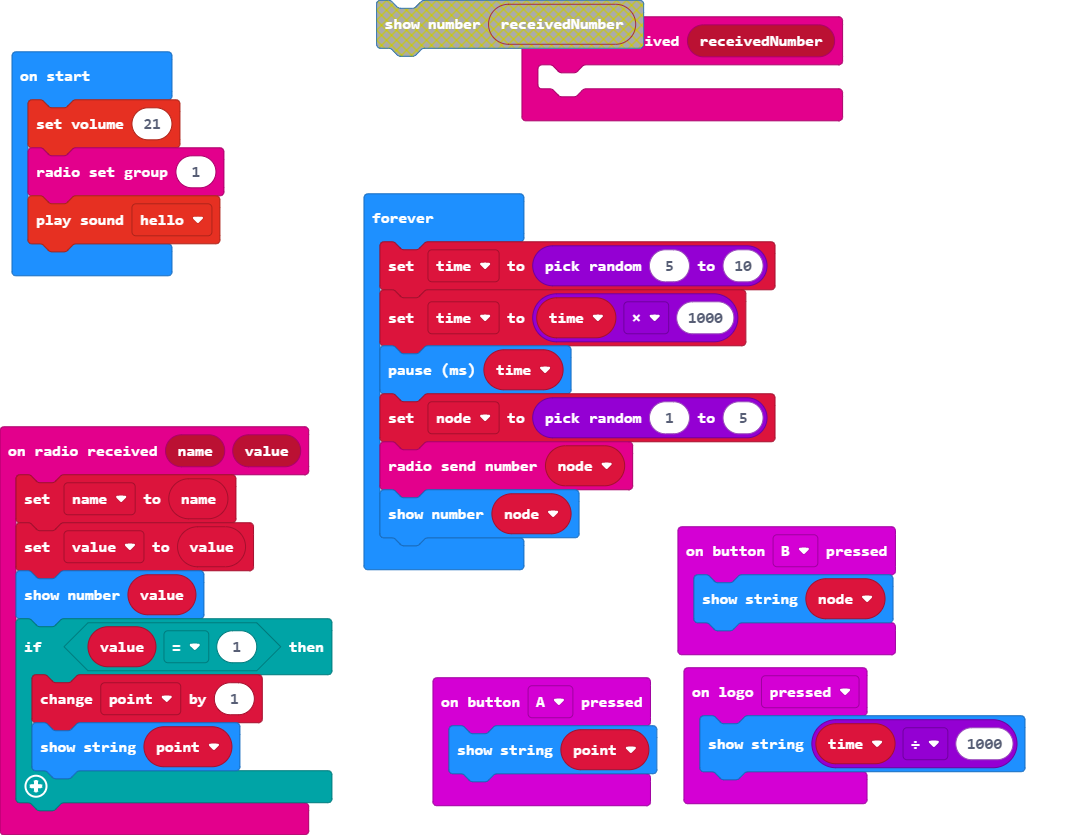
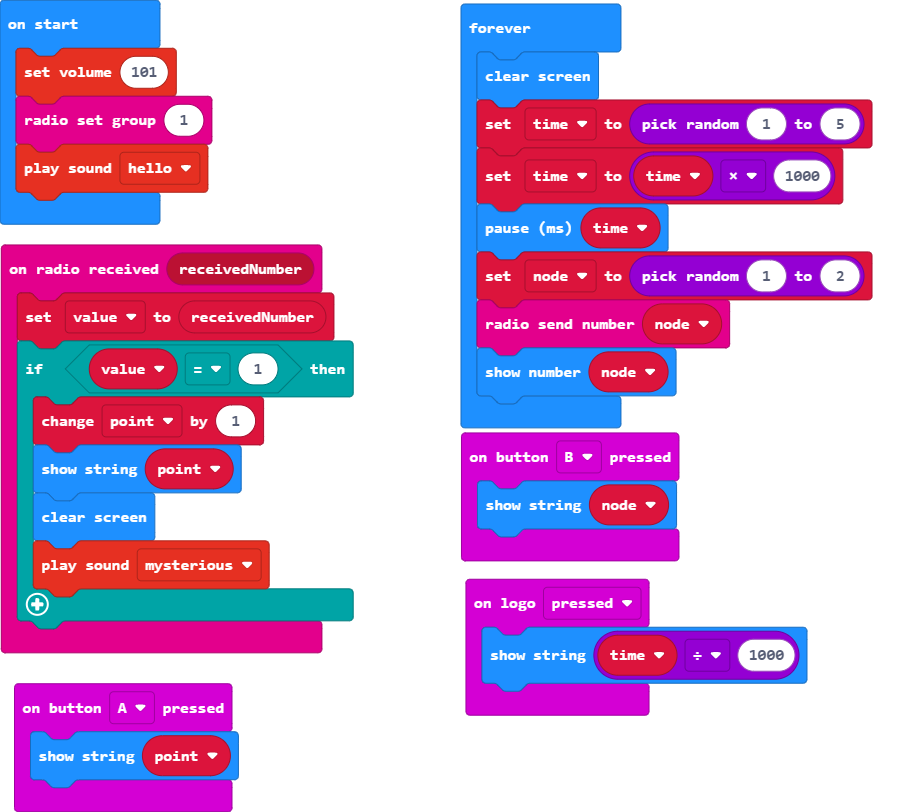
Update main.blocks, main.ts

diff --git a/main.ts b/main.ts
@@ -1,5 +1,11 @@
 radio.onReceivedNumber(function (receivedNumber) {
-	
+    value = receivedNumber
+    if (value == 1) {
+        point += 1
+        basic.showString("" + (point))
+        basic.clearScreen()
+        soundExpression.mysterious.play()
+    }
 })
 input.onButtonPressed(Button.A, function () {
     basic.showString("" + (point))
@@ -7,29 +13,22 @@ input.onButtonPressed(Button.A, function () {
 input.onButtonPressed(Button.B, function () {
     basic.showString("" + (node))
 })
-radio.onReceivedValue(function (name, value) {
-    name = name
-    value = value
-    basic.showNumber(value)
-    if (value == 1) {
-        point += 1
-        basic.showString("" + (point))
-    }
-})
 input.onLogoEvent(TouchButtonEvent.Pressed, function () {
     basic.showString("" + (time / 1000))
 })
 let time = 0
 let node = 0
 let point = 0
-music.setVolume(21)
+let value = 0
+music.setVolume(101)
 radio.setGroup(1)
 soundExpression.hello.play()
 basic.forever(function () {
-    time = randint(5, 10)
+    basic.clearScreen()
+    time = randint(1, 5)
     time = time * 1000
     basic.pause(time)
-    node = randint(1, 5)
+    node = randint(1, 2)
     radio.sendNumber(node)
     basic.showNumber(node)
 })
